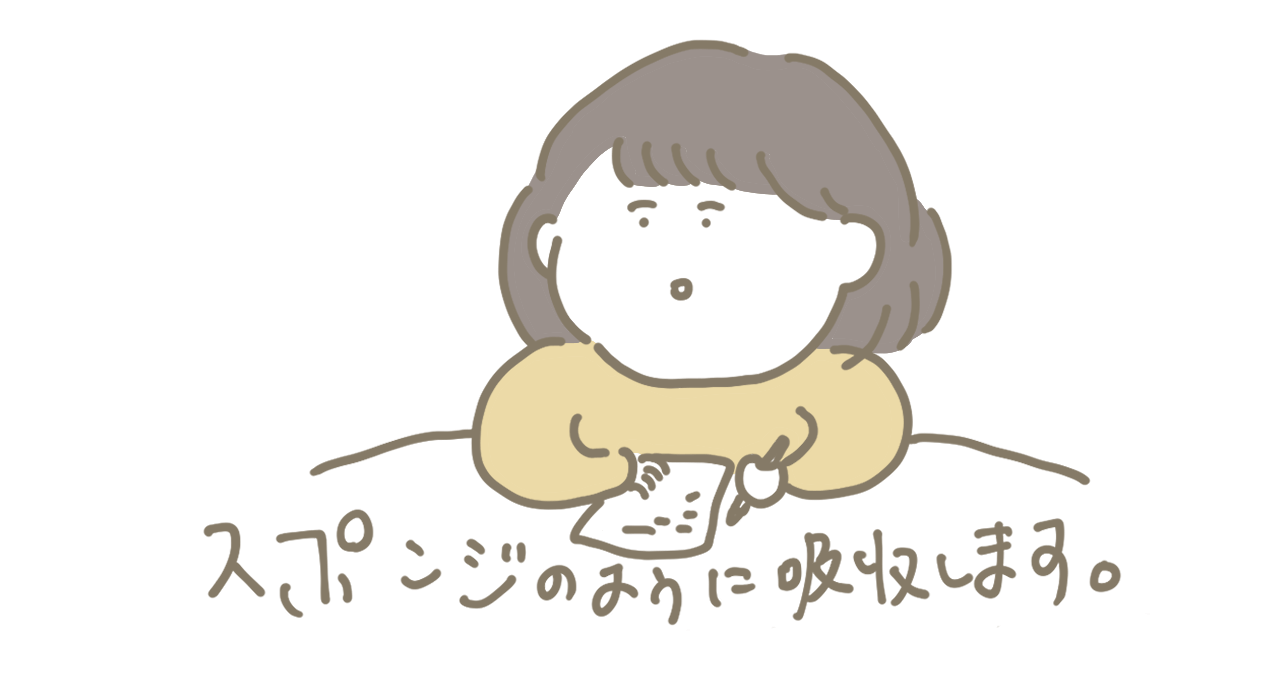
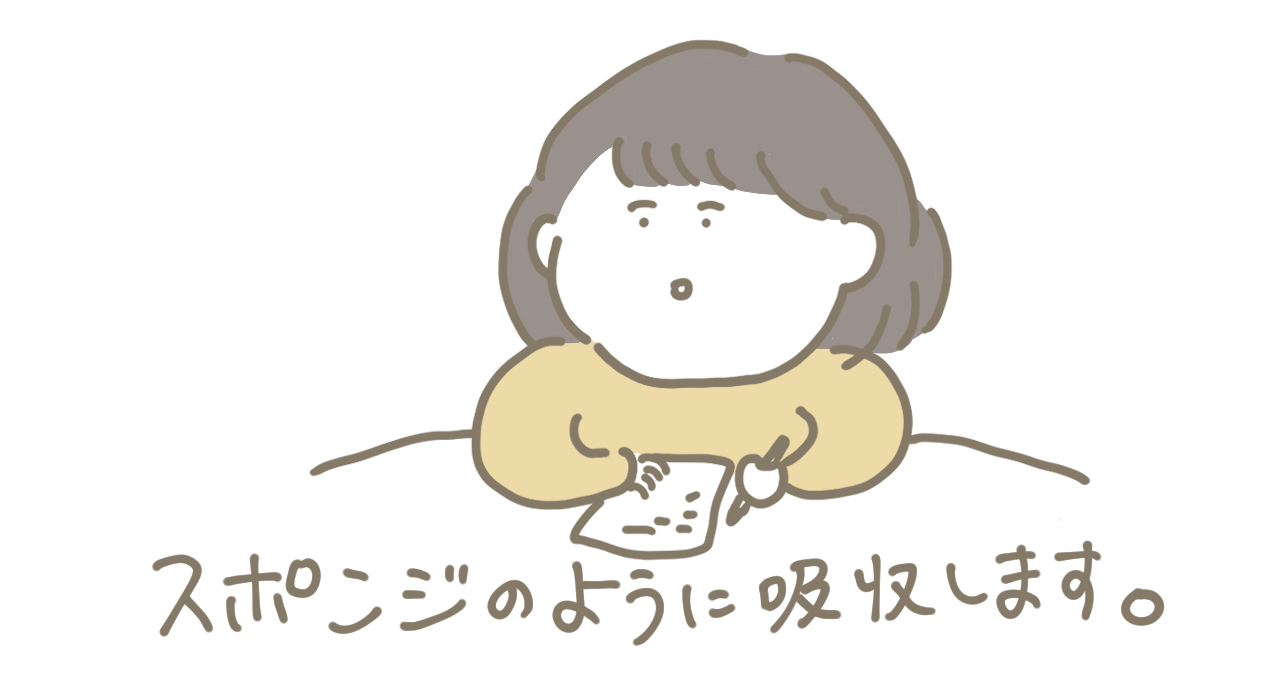
デザイン変更

Changed region(s): [[0.125, 0.7478, 0.9062, 0.9659]]

diff --git a/css/style.css b/css/style.css
@@ -1,6 +1,4 @@
-@import url(https://fonts.googleapis.com/css?family=Pacifico);
-@import url(http://fonts.googleapis.com/earlyaccess/notosansjp.css);
-@import url(https://fonts.googleapis.com/css?family=Josefin+Sans);
+@import url('https://fonts.googleapis.com/css2?family=Kiwi+Maru&display=swap');
 
 /*lightbox.cssの読み込み */
 @import url(https://cdnjs.cloudflare.com/ajax/libs/lightbox2/2.10.0/css/lightbox.css);
@@ -18,7 +16,7 @@ h1,h2,h3,h4,h5,h6{font-size:100%;}
 img,abbr,acronym,fieldset{border:0;}
 
 body{
-	font: 14px/1.9 'Noto Sans JP', Arial, Verdana, 游ゴシック, YuGothic,'ヒラギノ角ゴ ProN W3', 'Hiragino Kaku Gothic ProN', メイリオ, Meiryo,sans-serif;
+	font: 14px/1.9 'Kiwi Maru', serif;
 	font-weight: 300;
 	-webkit-text-size-adjust:100%;
 	overflow-x: hidden;
@@ -48,42 +46,62 @@ a:active, a:focus,input:active, input:focus{outline:0;}
 
 /*opa2（透明から着色状態に＆下からフェードイン）*/
 @keyframes opa2 {
-	0% {opacity: 0;top: 10px;}
-	100% {opacity: 1;top: 0px;}
+	0% {
+		transform: translateY(180px);
+		opacity: 0;
+	}
+	100% {
+		transform: translateX(0);
+	}
+	40%,100% {
+		opacity: 1;
+	}
 }
 
 /*CSSスライドショー設定 */
-/*１枚目*/
+@keyframes slide0 {
+	0% {opacity: 1;}
+	20% {opacity: 1;}
+	30% {opacity: 0;}
+	50% {opacity: 0;}
+	60% {opacity: 0;}
+	100% {opacity: 0;}
+}
+/*1枚目*/
 @keyframes slide1 {
 	0% {opacity: 0;}
-	19% {opacity: 1;}
-	35% {opacity: 1;}
-	45% {opacity: 0;}
+	10% {opacity: 1;}
+	40% {opacity: 1;}
+	50% {opacity: 0;}
+	60% {opacity: 0;}
 	100% {opacity: 0;}
 }
-/*２枚目*/
+/*2枚目*/
 @keyframes slide2 {
 	0% {opacity: 0;}
-	25% {opacity: 0;}
-	35% {opacity: 1;}
-	53% {opacity: 1;}
-	75% {opacity: 0;}
+	20% {opacity: 0;}
+	30% {opacity: 1;}
+	60% {opacity: 1;}
+	70% {opacity: 0;}
 	100% {opacity: 0;}
 }
-/*３枚目*/
+/*3枚目*/
 @keyframes slide3 {
 	0% {opacity: 0;}
-	35% {opacity: 0;}
-	53% {opacity: 1;}
-	73% {opacity: 1;}
+	40% {opacity: 0;}
+	50% {opacity: 1;}
+	80% {opacity: 1;}
+	90% {opacity: 0;}
 	100% {opacity: 0;}
 }
-/*４枚目*/
+/*4枚目*/
 @keyframes slide4 {
 	0% {opacity: 0;}
 	55% {opacity: 0;}
-	73% {opacity: 1;}
-	86% {opacity: 1;}
+	60% {opacity: 0;}
+	70% {opacity: 1;}
+	85% {opacity: 1;}
+	95% {opacity: 0;}
 	100% {opacity: 0;}
 }
 
@@ -100,7 +118,7 @@ a:active, a:focus,input:active, input:focus{outline:0;}
 	visibility: visible;
 	transform: translateY(0);
 	animation-name: opa1;		/*keyframes.cssで使う@keyframesの指定*/
-	animation-duration: 0.5S;	/*アニメーションの実行時間*/
+	animation-duration: 1S;	/*アニメーションの実行時間*/
 	animation-delay: 0.5s;		/*出現するタイミング（秒後）*/
 	animation-fill-mode: both;
 	text-decoration: none;
@@ -112,10 +130,6 @@ a:active, a:focus,input:active, input:focus{outline:0;}
 	position: relative;
     overflow:hidden;
     width:100%;
-	animation-name: opa1;		/*keyframes.cssで使う@keyframesの指定*/
-	animation-duration: 1s;	/*アニメーションの実行時間*/
-	animation-delay: 0.7s;		/*出現するタイミング（秒後）*/
-	animation-fill-mode: both;
 	margin-top: 80px;
 }
 
@@ -132,10 +146,11 @@ a:active, a:focus,input:active, input:focus{outline:0;}
 #top2 {
 	position:absolute;
 	z-index: 4;
-	top: 70%;
+	top: 10%;
     right: 6%;
-	width: 25%;
-	min-width: 150px;
+	width: 20%;
+	min-width: 120px;
+	max-width: 200px;
 	animation-name: opa1;		/*keyframes.cssで使う@keyframesの指定*/
 	animation-duration: 1.5s;	/*アニメーションの実行時間*/
 	animation-delay: 1.5s;		/*出現するタイミング（秒後）*/
@@ -145,13 +160,14 @@ a:active, a:focus,input:active, input:focus{outline:0;}
 #top3 {
 	position:absolute;
 	z-index: 4;
-	top: 70%;
+	top: 10%;
     left: 6%;
-	width: 25%;
-	min-width: 150px;
+	width: 20%;
+	min-width: 120px;
+	max-width: 200px;
 	animation-name: opa1;		/*keyframes.cssで使う@keyframesの指定*/
 	animation-duration: 1.5s;	/*アニメーションの実行時間*/
-	animation-delay: 1.5s;		/*出現するタイミング（秒後）*/
+	animation-delay: 2s;		/*出現するタイミング（秒後）*/
 	animation-fill-mode: both;
 }
 
@@ -167,7 +183,7 @@ video {
 /* 共通
 ------------------------------------------------------------*/
 h1, h2{
-	font-family: 'Josefin Sans', 'Noto Sans JP',serif;
+	font-family: 'Kiwi Maru', serif;
 }
 
 img{
@@ -246,6 +262,27 @@ figure{
 }
 
 /* SEC03 デザイン */
+.over{
+    position: relative;
+}
+.over div{
+    position: absolute;
+    width: 100%;
+    height: 100%;
+    background: rgba(0,0,0,0);
+    opacity: 0;
+    left: 0;
+    top: 0;
+    display: flex;
+    justify-content: center;
+    align-items: center;
+    color: #FFF;
+    transition: .3s;
+}
+.over:hover div{
+    background: rgba(0, 0, 0, 0.5);
+    opacity: 1;
+}
 
 /* SEC04 デッサン */
 /*画像ブロック*/
@@ -261,29 +298,34 @@ figure{
 	width: 100%;
 	animation-duration: 15s;	/*実行する時間。「s」は秒の事。*/
 	animation-iteration-count:infinite;		/*実行する回数。「infinite」は無限に繰り返す意味。*/
-	position: absolute;left:0px;top:0px;
+	position: absolute;
+	left:0px;
+	top:0px;
 	animation-fill-mode: both;
 	animation-delay: 1s;
 }
 /*土台画像*/
 .slide0 {
-	position: relative;width: 100%;height: auto;
+	position: relative;
+	width: 100%;
+	height: auto;
+	animation-name: slide0;
 }
 /*１枚目*/
 .slide1 {
-	animation-name: slide1;	/*上で設定しているキーフレーム（keyframes）の名前*/
+	animation-name: slide1;
 }
 /*２枚目*/
 .slide2 {
-	animation-name: slide2;	/*上で設定しているキーフレーム（keyframes）の名前*/
+	animation-name: slide2;
 }
 /*３枚目*/
 .slide3 {
-	animation-name: slide3;	/*上で設定しているキーフレーム（keyframes）の名前*/
+	animation-name: slide3;
 }
 /*４枚目*/
 .slide4 {
-	animation-name: slide4;	/*上で設定しているキーフレーム（keyframes）の名前*/
+	animation-name: slide4;
 }
 
 #sec04{
@@ -395,14 +437,19 @@ body.is-fixed-pagetop .nav-fix-pos-pagetop a:hover {
 		float: right;
 	}
 
+	.profimg {
+		position: relative;
+	}
+
 	.vMid{
-		display: table-cell;
-		padding: 0 100px;
+		position:absolute;
 		vertical-align: middle;
-		background-image:url("../images/bg3.png");
-		background-repeat: no-repeat;
-		background-position:50% 50%;
-		background-size:contain;
+		top: 60%;
+		left: 50%;
+		transform: translate(-50%, -50%);
+		-webkit-transform: translate(-50%, -50%);
+		-ms-transform: translate(-50%, -50%);
+		width: 80%;
 	}
 	
 	/* SEC03 */
@@ -559,11 +606,19 @@ body.is-fixed-pagetop .nav-fix-pos-pagetop a:hover {
 	#sec01 h2{
 		padding: 70px 0 20px;
 	}
+	.profimg {
+		position: relative;
+	}
+
 	.vMid{
+		position:absolute;
 		padding: 0 20px;
-		background-image:url("../images/bg3.png");
-		background-repeat: no-repeat;
-		background-position:50% 50%;
-		background-size:contain;
+		top: 50%;
+		left: 50%;
+		transform: translate(-50%, -50%);
+		-webkit-transform: translate(-50%, -50%);
+		-ms-transform: translate(-50%, -50%);
+		width: 80%;
+		vertical-align: middle;
 	}
 }

diff --git a/index.html b/index.html
@@ -41,27 +41,36 @@
 	<div class="wrap">
 		<p class="bg"><img src="images/profile1.png" alt=""></p>
 		<div class="txt">
-			<div class="vMid">
-				<h2>MESSAGE</h2>
-				<p>ちかごろ世間で日本歴史の科学的研究ということがしきりに叫ばれている。科学的研究というのが近代史学の学問的方法による研究という意義であるならば、これは史学の学徒の間においては一般に行われていることであるから、今さらこと新しくいう。</p>
+			<div class="profimg" >
+				<img src="images/bg3.png" alt="">
+				<div class="vMid">
+					<h2>MESSAGE</h2>
+					<p>ちかごろ世間で日本歴史の科学的研究ということがしきりに叫ばれている。科学的研究というのが近代史学の学問的方法による研究という意義であるならば、これは史学の学徒の間においては一般に行われていることであるから、今さらこと新しくいう。</p>
+				</div>
 			</div>
 		</div>
 	</div>
 	<div id="sec02_02" class="wrap">
 		<p class="bg"><img src="images/profile2.png" alt=""></p>
 		<div class="txt">
-			<div class="vMid">
-				<h2>MESSAGE</h2>
-				<p>日本歴史の科学的研究ということがしきりに叫ばれている。科学的研究というのが近代史学の学問的方法による研究という意義であるならば、これは史学の学徒の間においては一般に行われていることであるから、今さらこと新しくいう。</p>
+			<div class="profimg" >
+				<img src="images/bg3.png" alt="">
+				<div class="vMid">
+					<h2>MESSAGE</h2>
+					<p>日本歴史の科学的研究ということがしきりに叫ばれている。科学的研究というのが近代史学の学問的方法による研究という意義であるならば、これは史学の学徒の間においては一般に行われていることであるから、今さらこと新しくいう。</p>
+				</div>
 			</div>
 		</div>
 	</div>
 	<div class="wrap">
 		<p class="bg"><img src="images/profile3.png" alt=""></p>
 		<div class="txt">
-			<div class="vMid">
-				<h2>MESSAGE</h2>
-				<p>ちかごろ世間で日本歴史の科学的研究ということがしきりに叫ばれている。科学的研究というのが近代史学の学問的方法による研究という意義であるならば、これは史学の学徒の間においては一般に行われていることであるから、今さらこと新しくいう。</p>
+			<div class="profimg" >
+				<img src="images/bg3.png" alt="">
+				<div class="vMid">
+					<h2>MESSAGE</h2>
+					<p>日本歴史の科学的研究ということがしきりに叫ばれている。科学的研究というのが近代史学の学問的方法による研究という意義であるならば、これは史学の学徒の間においては一般に行われていることであるから、今さらこと新しくいう。</p>
+				</div>
 			</div>
 		</div>
 	</div>
@@ -142,8 +151,8 @@
 		<ul class="col3">
 			<li>
 				<h2>ロゴ</h2>
-				<a href="images/tamachan-1.jpg" data-lightbox="group1" data-title="タイトル">
-				<figure><img src="images/tamachan-1.jpg" alt=""></figure>
+				<a href="images/tamachan-1.png" data-lightbox="group1" data-title="タイトル">
+				<figure class="over"><img src="images/tamachan-1.png" alt=""><div></div></figure>
 				</a>
 				<a hidden href="images/tamakun-2.jpg" data-lightbox="group1" data-title="タイトル">
 				</a>
@@ -151,8 +160,8 @@
 			</li>
 			<li>
 				<h2>エコバッグ</h2>
-				<a href="images/logo1.jpg" data-lightbox="group2" data-title="タイトル">
-				<figure><img src="images/logo1.jpg" alt=""></figure>
+				<a href="images/logo1.png" data-lightbox="group2" data-title="タイトル">
+				<figure class="over"><img src="images/logo1.png" alt=""><div></div></figure>
 				</a>
 				<a hidden href="images/logo2.png" data-lightbox="group2" data-title="タイトル">
 				</a>
@@ -163,7 +172,7 @@
 			<li>
 				<h2>壁画</h2>
 				<a href="images/mural0.jpg" data-lightbox="group3" data-title="タイトル">
-				<figure><img id="mural_image" src="images/mural0.jpg" alt=""></figure>
+				<figure class="over"><img id="mural_image" src="images/mural0.jpg" alt=""><div></div></figure>
 				</a>
 				<a hidden href="images/mural1.jpg" data-lightbox="group3" data-title="タイトル"></a>
 				<a hidden href="images/mural2.jpg" data-lightbox="group3" data-title="タイトル">
